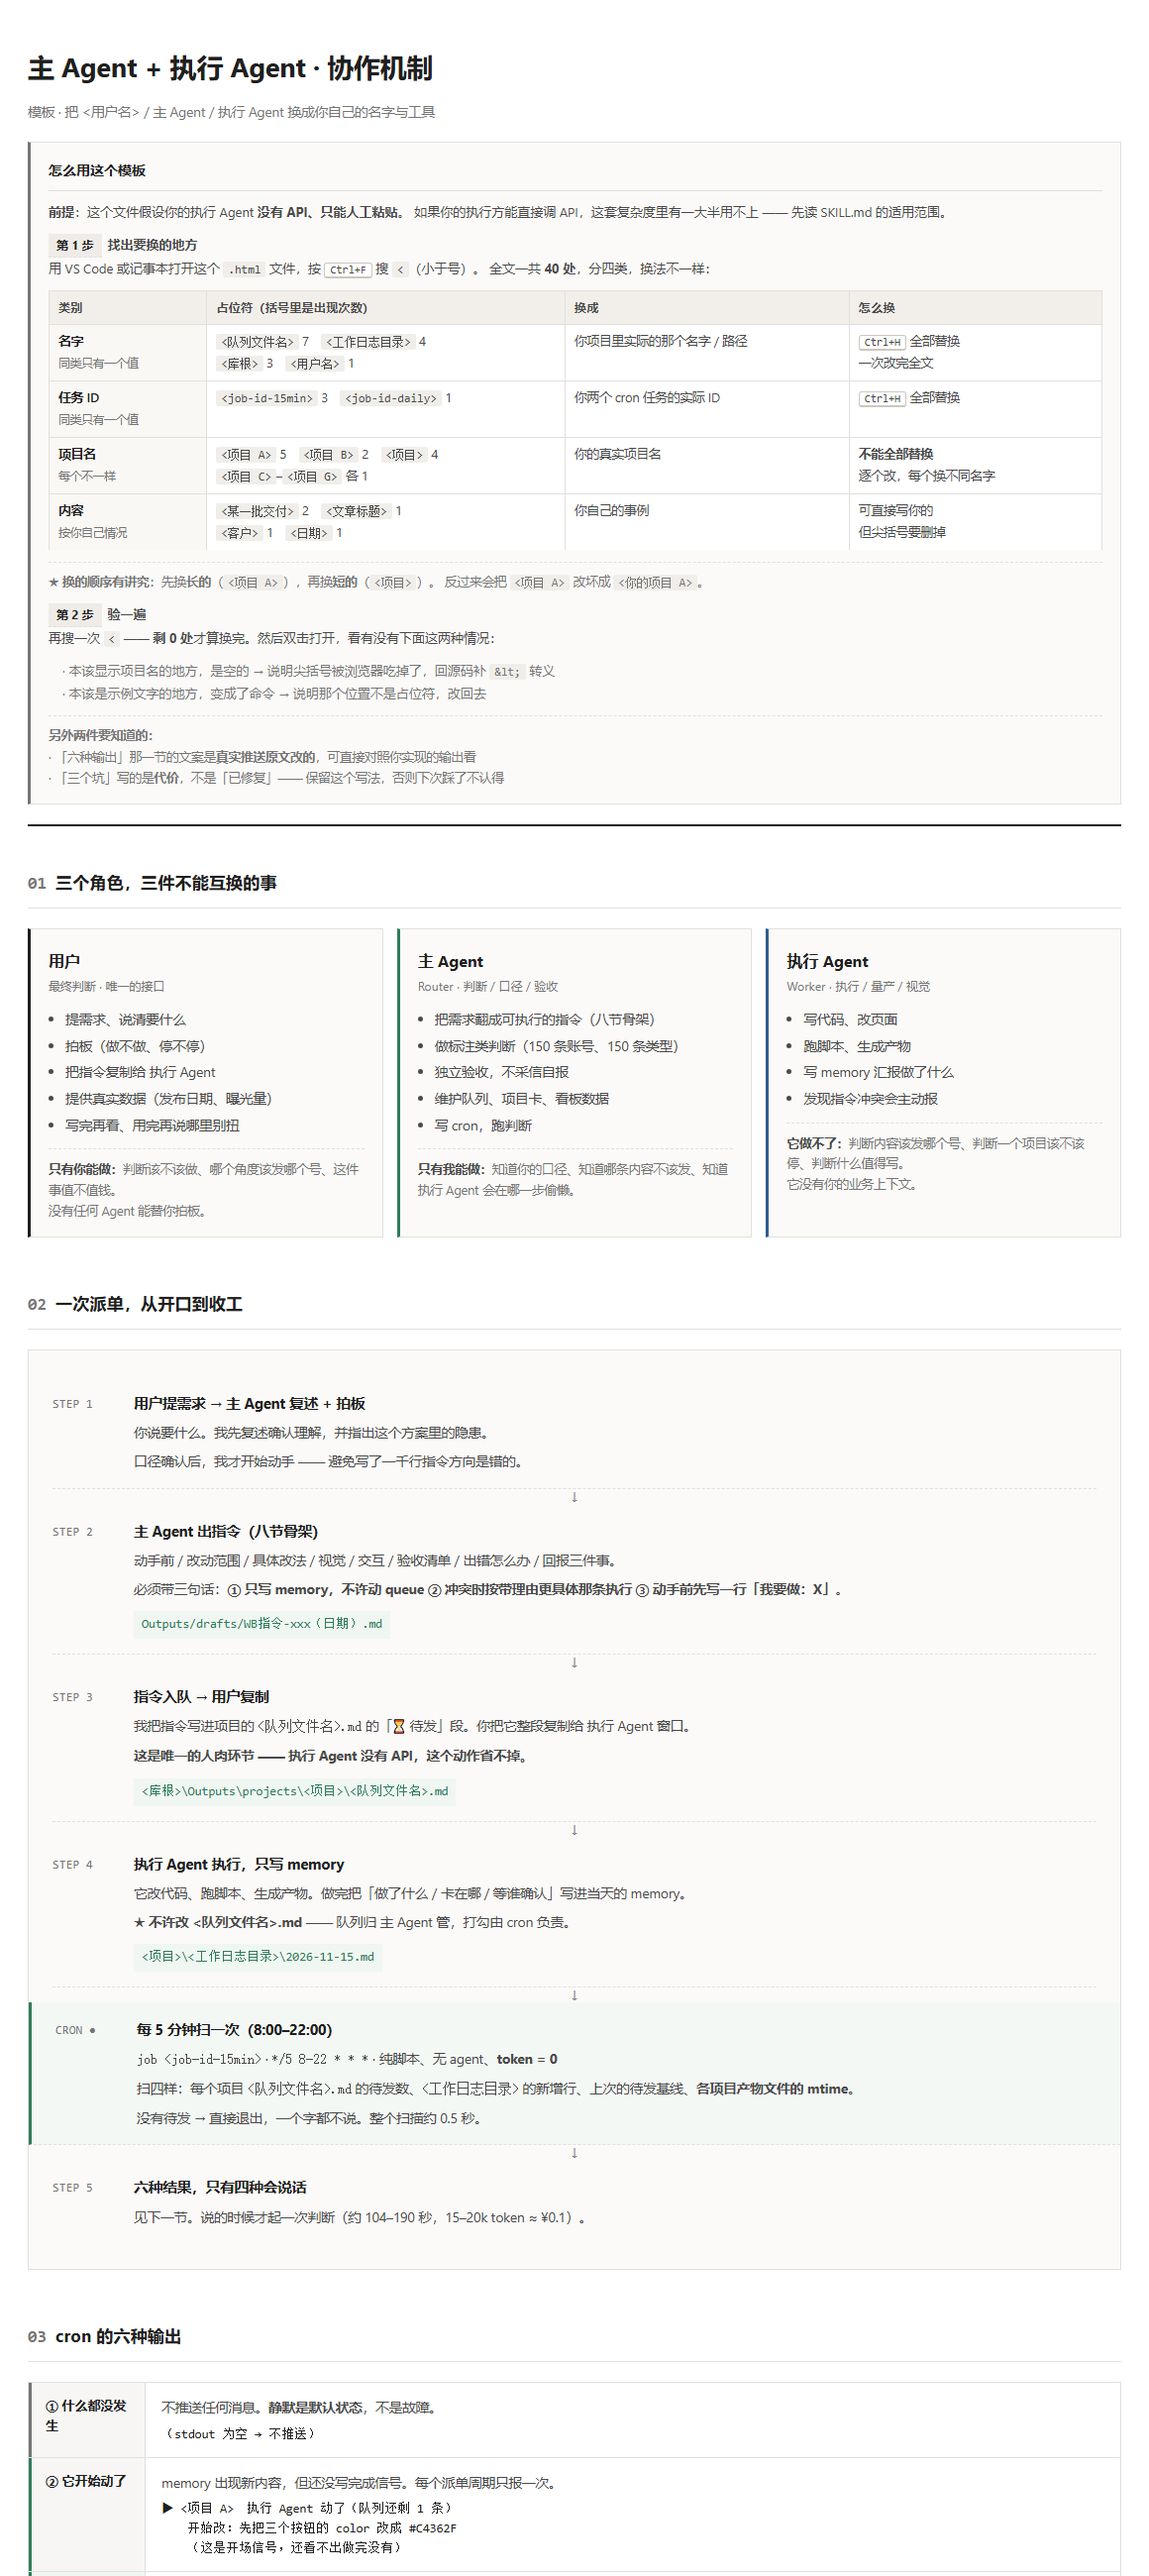
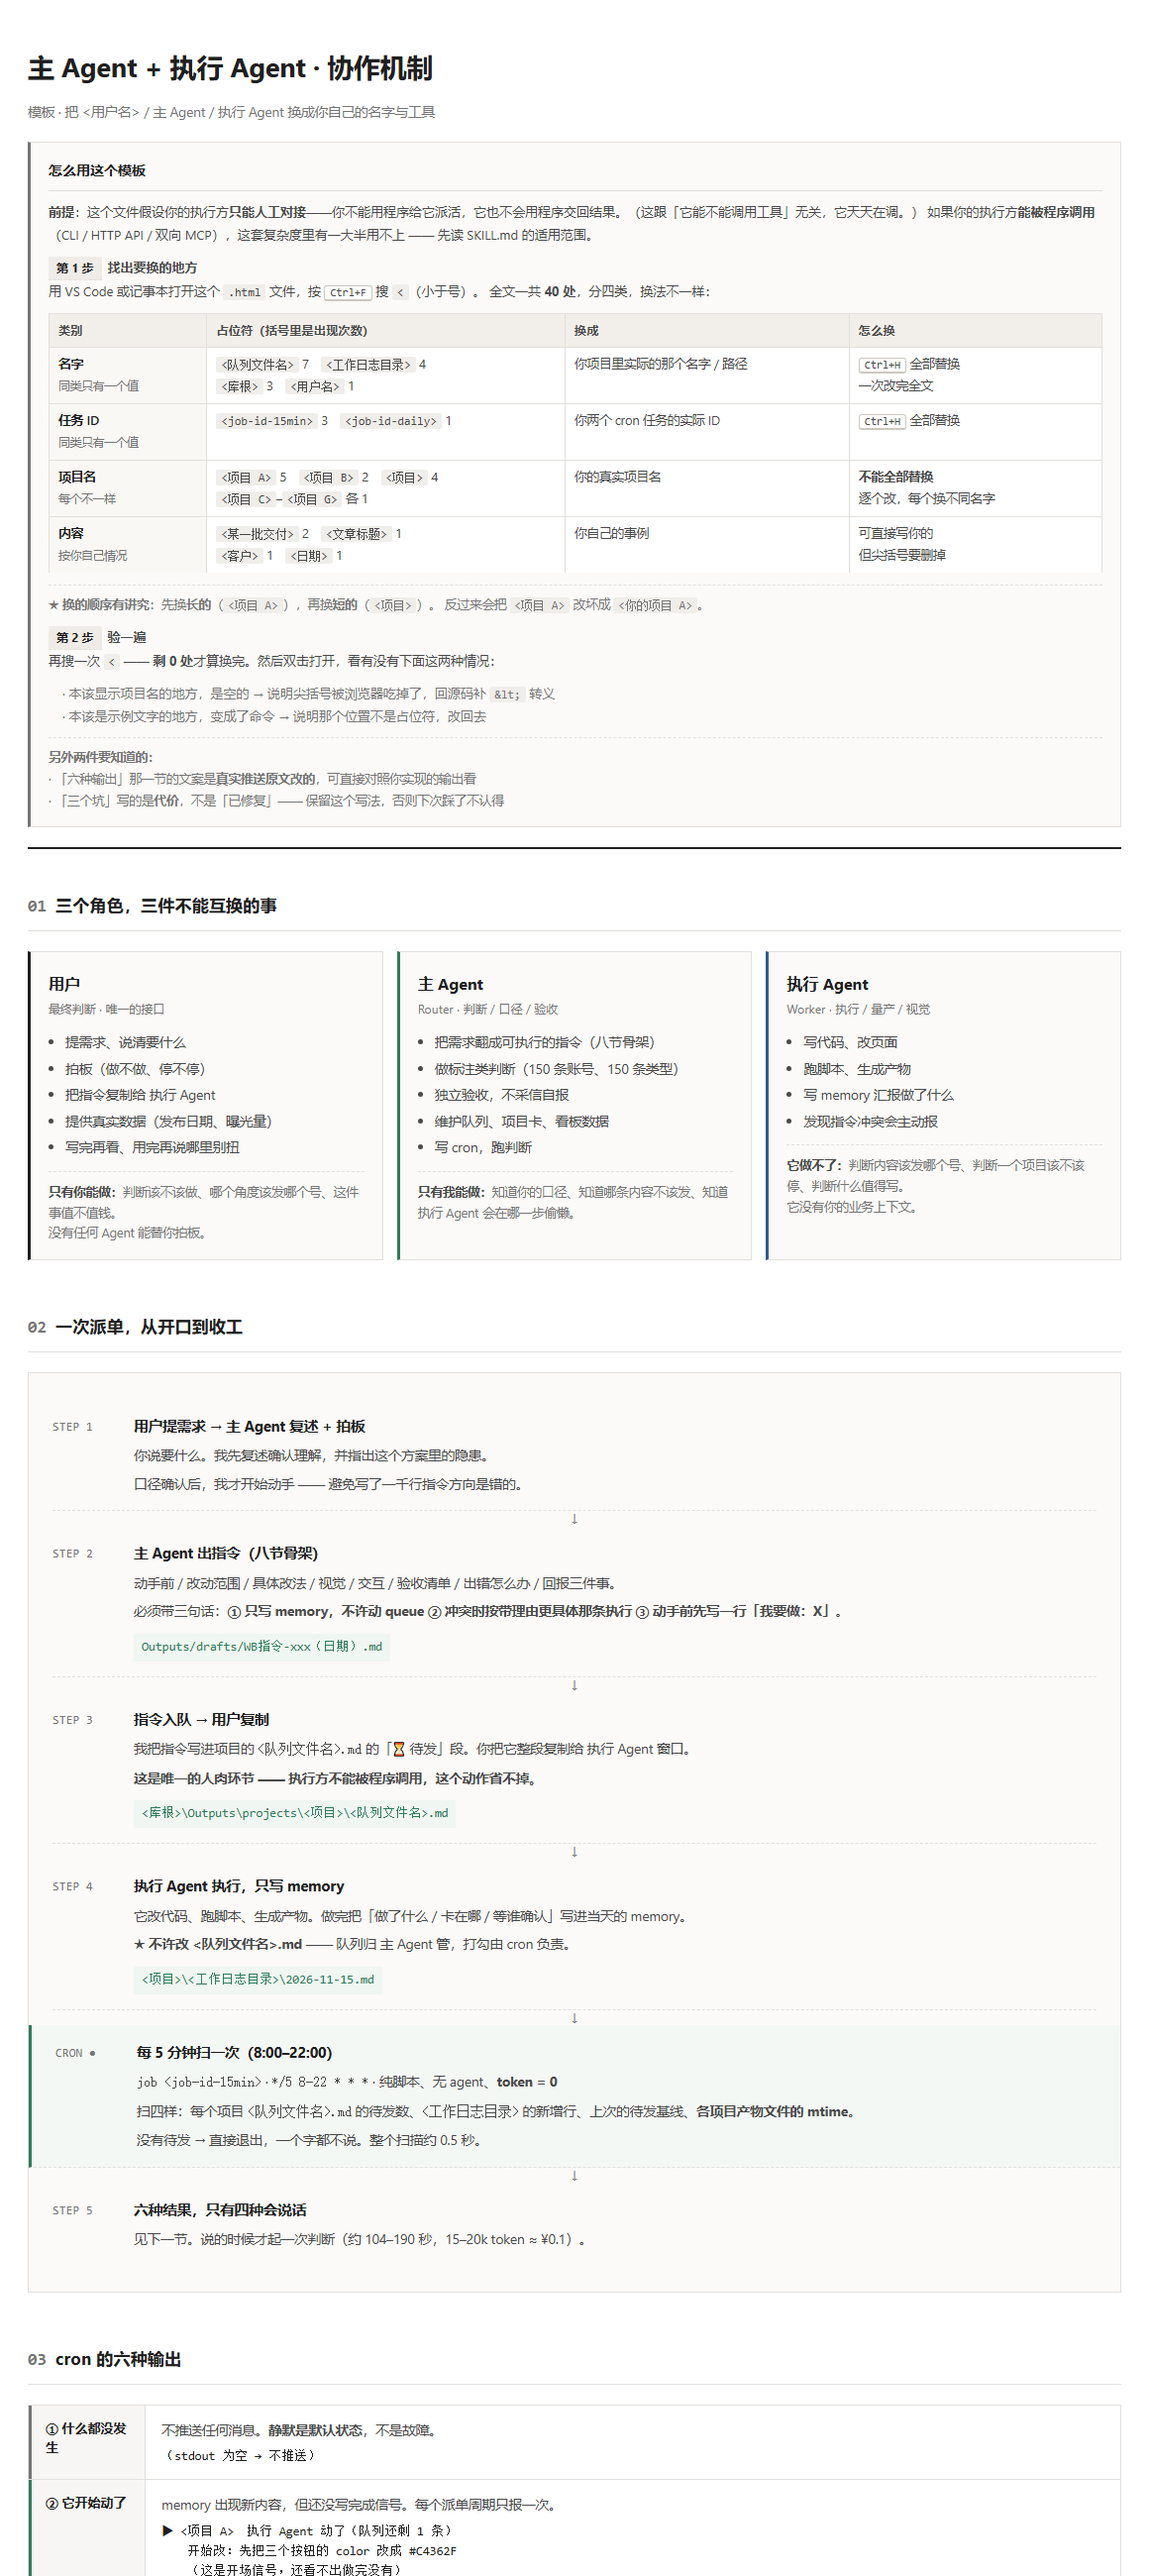
fix: 「无 API」这个说法会误读 —— 统一改成「只能人工对接」
用户的原话：「Github里面，api的意思就是接口，那agent运行过程肯定会调用各种工具，
所以写无api容易引起误解，这部分表述你调整一下」

★ 他说得对。API 在 Agent 语境里有三种意思，我们指的是第一种：
  入站 API（你 → Agent）　　　✗ 没有　← 我们说的是这个
  出站 API（Agent → 你）　　　✗ 没有　← 也是这个
  工具 API（Agent → 工具）　　✓ 有，天天调　← 读者以为我们在说这个

【改法】
主表述：「只能人工对接」
展开：不能被程序调用（没有 CLI / HTTP 端点 / 双向 MCP），也不会主动交回结果

首次出现的地方（README 顶部 + SKILL.md §0.0）加一段澄清：
  这里说的不是「Agent 能不能调用工具」—— 它当然能，而且每天都在调。
  说的是【对接方向】的两头都断：你 → 它 不能用程序派活；它 → 你 不能用程序交回结果。

【改了哪些】
· README.md          7 处 + badge 从「API: not required」改成「对接方式: 人工」
· SKILL.md           适用范围整段重写 + description + 一处
· automation.md      2 处
· mechanism-diagram.html  4 处
· 保留 3 处 File System Access API（浏览器 API，跟这个话题无关，不能动）
· 保留「LLM API 额度」（真 API）
· 保留「WorkBuddy 无 CLI、无公开 HTTP API」这类事实描述（准确）

【顺带】
· 机制图 HTML 改了 → 按 skill 里那条「内容改了副本没跟上」，重截了 docs/preview.png
· 两版同步，除 name 外一致，双 CR 0 处

diff --git a/README.md b/README.md
@@ -2,10 +2,20 @@
 
 ![License: MIT](https://img.shields.io/badge/License-MIT-green.svg)
 ![Files: 18](https://img.shields.io/badge/Files-18-blue.svg)
-![API: not required](https://img.shields.io/badge/API-not%20required-lightgrey.svg)
+![对接方式: 人工](https://img.shields.io/badge/%E5%AF%B9%E6%8E%A5%E6%96%B9%E5%BC%8F-%E4%BA%BA%E5%B7%A5-lightgrey.svg)
 
-**这是一个 Agent skill 包**，记录「无 API 环境下，主 Agent 怎么管住执行 Agent」这套分工方法。
-执行方只能人工粘贴 —— 它解决的就是那种「每一步都得你亲自盯」的窘境。
+**这是一个 Agent skill 包**，记录「执行方只能人工对接时，主 Agent 怎么管住它」这套分工方法。
+它解决的是那种「每一步都得你亲自盯」的窘境。
+
+**★ 先把「API」这个词说清楚，不然后面会读歪：**
+
+```
+这里说的不是「Agent 能不能调用工具」—— 它当然能，而且每天都在调。
+说的是【对接方向】的两头都断：
+　　你 → 它　不能用程序派活（没有 CLI、没有 HTTP 端点、没有双向 MCP）
+　　它 → 你　不能用程序交回结果（不会推事件、不会返结构化返回值）
+所以只能复制粘贴。这套方法就是为那种情况写的。
+```
 
 **读完大概 4 分钟。如果你只想知道结论：把验收从脑子里搬到一个每 5 分钟跑一次的脚本里，
 并且接受「执行方会自己把队列打了勾」这个坑。**
@@ -23,8 +33,8 @@
 
 | 你的情况 | 建议 |
 |---|---|
-| 执行 Agent 没有 HTTP API / CLI，只能复制粘贴 | **往下读** |
-| 执行 Agent 有 API、CLI 或双向 MCP | 关掉 —— 这套里有一大半是负资产 |
+| 执行方**不能被程序调用**（没有 CLI / HTTP 端点 / 双向 MCP），只能复制粘贴 | **往下读** |
+| 执行方**能被程序调用**（CLI / HTTP API / 双向 MCP） | 关掉 —— 这套里有一大半是负资产 |
 | 想找一个开箱即用的工具 | 关掉 —— 这不是工具，是一份方法记录 |
 | 想看清「人肉接口」怎么做到不失控 | 从 [它解决什么问题](#它解决什么问题) 读起 |
 
@@ -33,7 +43,7 @@
 ## 它解决什么问题
 
 你在用两个 Agent：一个负责判断（主 Agent）一个负责干活（执行 Agent）。
-但执行方没有 API，于是：
+但执行方不能被程序调用，于是：
 
 ```
 派单 → 复制粘贴 → 等 → 回来问「做完了吗」→ 自己核 → 出下一批
@@ -167,7 +177,7 @@ python wb_watch.py            # 手动跑一次，静默就是正常
 
 | # | 前置 | 为什么必须 |
 |---|---|---|
-| 1 | 一个**没有 API** 的执行 Agent | 有 API 就该用回调，这套是负资产 |
+| 1 | 一个**不能被程序调用**的执行 Agent | 能程序化调用就该用回调，这套是负资产 |
 | 2 | 一个**定时任务机制**（cron / Windows 任务计划 / systemd timer） | 心跳和验收全靠「每 5 分钟跑一次」 |
 | 3 | **Python 3** + `scripts/` 里的代码 | 队列解析 / 扫描 / 触发。**代码已经写好了，不用自己写** —— 只要配 `agent-config.json` 里的两个路径 |
 | 4 | **Agent 的一次性调用入口** | judge 要起一个独立 session。Hermes 是 `hermes -z "..."`；你的 Agent 得有等价的 —— 没有它，判断起不来，只能退化成「只报完成不给判断」 |
@@ -195,7 +205,7 @@ python wb_watch.py            # 手动跑一次，静默就是正常
 |---|---|---|
 | 10 | 愿意写 **8–10KB 的长指令** | 短指令它就会自己补全，编得很顺但没真发生 |
 | 11 | 验收**不采信自报** | 它说「自检通过」，你照着回「通过」→ 确认了一个没验证的结论 |
-| 12 | 接受「人肉粘贴」省不掉 | 这不是缺陷，是设计前提。想省掉就该换有 API 的方案 |
+| 12 | 接受「人肉粘贴」省不掉 | 这不是缺陷，是设计前提。想省掉就该换**能程序调用**的方案 |
 | 13 | 执行方**只写日志、不许动队列** | 它会顺手打勾，然后监听器永远看不到「待发」 |
 
 #### D. 最硬的一条，没法用工具解决
@@ -277,9 +287,9 @@ docs/preview.png                   预览图
    你需要自己实现三个东西：队列解析器 / 心跳扫描器 / 判断触发器。
    三份加起来约 400 行 Python，references/auto-acceptance-judge.md 里有完整 prompt。
 
-③ 只适用于无 API 环境。
+③ 只适用于「执行方只能人工对接」的环境。
    每 5 分钟轮询、人肉粘贴、让执行方写日志当汇报 ——
-   这三样在没有 API 时是唯一可行解，在有 API 时全是负资产。
+   这三样在人工对接时是唯一可行解，在能程序调用时全是负资产。
 
 ④ 成本：每次自动判断 15–20k token（约 ¥0.1）。
    扫描本身 token=0。一天 3–5 次交付约 ¥0.4。

diff --git a/SKILL.md b/SKILL.md
@@ -1,6 +1,6 @@
 ---
 name: super-agent-brief-writing
-description: Use when 给 WorkBuddy/Codex 写执行指令、盯梢、自动验收（无 API 只能粘贴）。
+description: Use when 给 WorkBuddy/Codex 写执行指令、盯梢、自动验收（只能人工对接）。
 version: 1.0.0
 tags: [WorkBuddy, Codex, 指令, 提示词, 执行型Agent, 视觉产物]
 ---
@@ -19,7 +19,20 @@ tags: [WorkBuddy, Codex, 指令, 提示词, 执行型Agent, 视觉产物]
 
 ## 0.0 ★★★★★ 适用范围 —— 先读这一节，再决定要不要往下看
 
-**本方案是为「执行 Agent 没有 API」这个约束设计的。**
+**本方案是为「执行方只能人工对接」这个约束设计的。**
+
+**★★★★ 先把「API」这个词说清 —— 不说清，后面全读歪：**
+
+```
+这里说的不是「Agent 能不能调用工具」。它当然能，而且每天都在调
+（读写文件、跑命令、搜网页，这些都是工具调用，也常被叫成 API）。
+
+说的是【对接方向】的两头都断：
+　　你 → 它　不能用程序派活（没有 CLI、没有 HTTP 端点、没有双向 MCP）
+　　它 → 你　不能用程序交回结果（不会推事件、不会返结构化返回值）
+
+所以只能复制粘贴。这套方法就是为那种情况写的。
+```
 
 ```
 适用：
@@ -28,22 +41,22 @@ tags: [WorkBuddy, Codex, 指令, 提示词, 执行型Agent, 视觉产物]
 · 你想让「派单 → 盯梢 → 验收」这条链自动跑，但中间那个粘贴动作省不掉
 
 不适用：
-· 你的执行 Agent 有 HTTP API、CLI 或 MCP 双向通道
+· 你的执行方能被程序调用（CLI / HTTP API / 双向 MCP）
 · 你只在本地跑代码，不需要「派单」这个动作
 · 你想要一个开箱即用的工具（这不是工具，是一套分工方法的记录）
 ```
 
-**★★★ 抄这套到有 API 的环境，你会得到一个比原来更慢的系统。**
+**★★★ 抄这套到「能程序调用」的环境，你会得到一个比原来更慢的系统。**
 
-**★★ 为什么：这套里最重的三个设计，全是为了绕开「没有 API」——**
+**★★ 为什么：这套里最重的三个设计，全是为了绕开「两头都不能用程序对接」——**
 
 ```
-① 每 15 分钟轮询（有 API 就该用 webhook / 回调）
-② 人肉复制粘贴（有 API 就该直接 submit）
-③ 让执行方写 memory 文件当汇报（有 API 就该读结构化返回值）
+① 每 5 分钟轮询（能程序调用就该用 webhook / 回调）
+② 人肉复制粘贴（能程序调用就该直接 submit）
+③ 让执行方写 memory 文件当汇报（能程序调用就该读结构化返回值）
 ```
 
-**★ 这三样在没有 API 的环境里是唯一可行解，在有 API 的环境里全是负资产。**
+**★ 这三样在人工对接时是唯一可行解，在能程序调用时全是负资产。**
 
 **★ 本文里的 `<工作日志目录>`、`<队列文件名>`、`<库根>` 都是位置约定，不是固定路径。**
 按你用的执行 Agent 填：WorkBuddy 的话是 `<项目>/.workbuddy/memory/`；其他 Agent 自己找它写日志的地方。
@@ -167,7 +180,7 @@ v2 之后如果你真写过一篇，v3 v4 的改动会准得多 —— 因为下
 **① 用户是那个人肉接口 —— 这是瓶颈，也是安全阀**
 
 ```
-WB 无 CLI、无 HTTP API → 每次迭代 = 你复制 + 等待 + 回来告诉我
+WB 不能被程序调用（无 CLI、无 HTTP 端点）→ 每次迭代 = 你复制 + 等待 + 回来告诉我
 实测一天 5 轮交付 = 5 个来回 = 6 小时
 好处：每一步你都能叫停。坏处：规模上不去。
 ```

diff --git a/references/automation.md b/references/automation.md
@@ -601,7 +601,7 @@ diff_artifacts(prev, cur)    # 对比两轮，返回变化的文件
 ④ Worker 回报状态　　　　　　✅ 有（memory + 队列）
 ```
 
-**★★★ 差距在第 ② 条：分派不能自动化。而它被「执行方没有 API」卡死 —— 提高 LLM 频率解决不了它。**
+**★★★ 差距在第 ② 条：分派不能自动化。而它被「执行方不能被程序调用」卡死 —— 提高 LLM 频率解决不了它。**
 
 **★★★★ 而且真正的 Router 是【事件驱动】的（Worker 完成了推一条给 Router），不是【高频轮询】的。
 你现在是轮询，是因为没有回调可用，**不是因为轮询更先进**。**
@@ -623,7 +623,7 @@ diff_artifacts(prev, cur)    # 对比两轮，返回变化的文件
 #### 那什么才真正让人更接近 SuperAgent
 
 ```
-① 分派能自动化　　—— 卡在无 API，短期无解
+① 分派能自动化　　—— 卡在「不能被程序调用」，短期无解
 ② 检测覆盖更全　　—— 产物监控（治失明，见 §0.3.5）
 ③ ★ Router 有自己的判断标准 —— 这条不花钱，最该做
 ```
